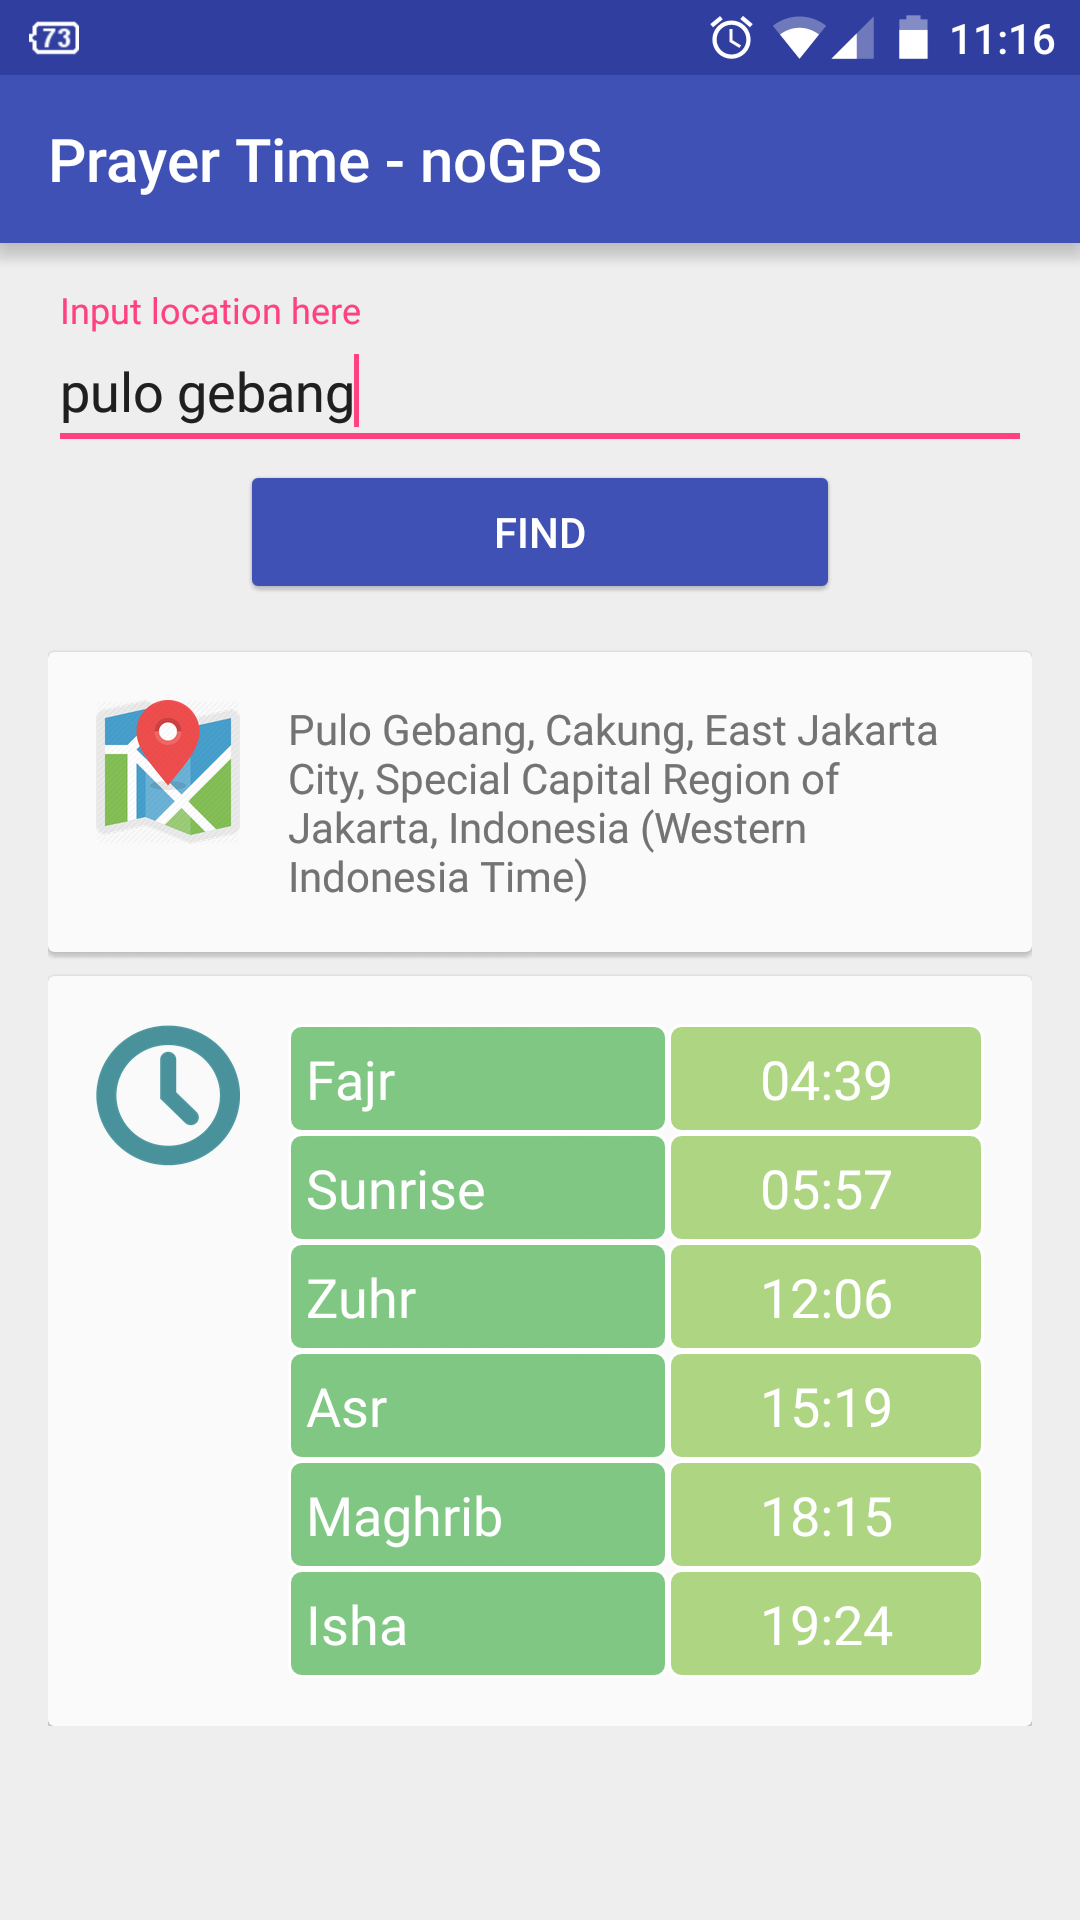
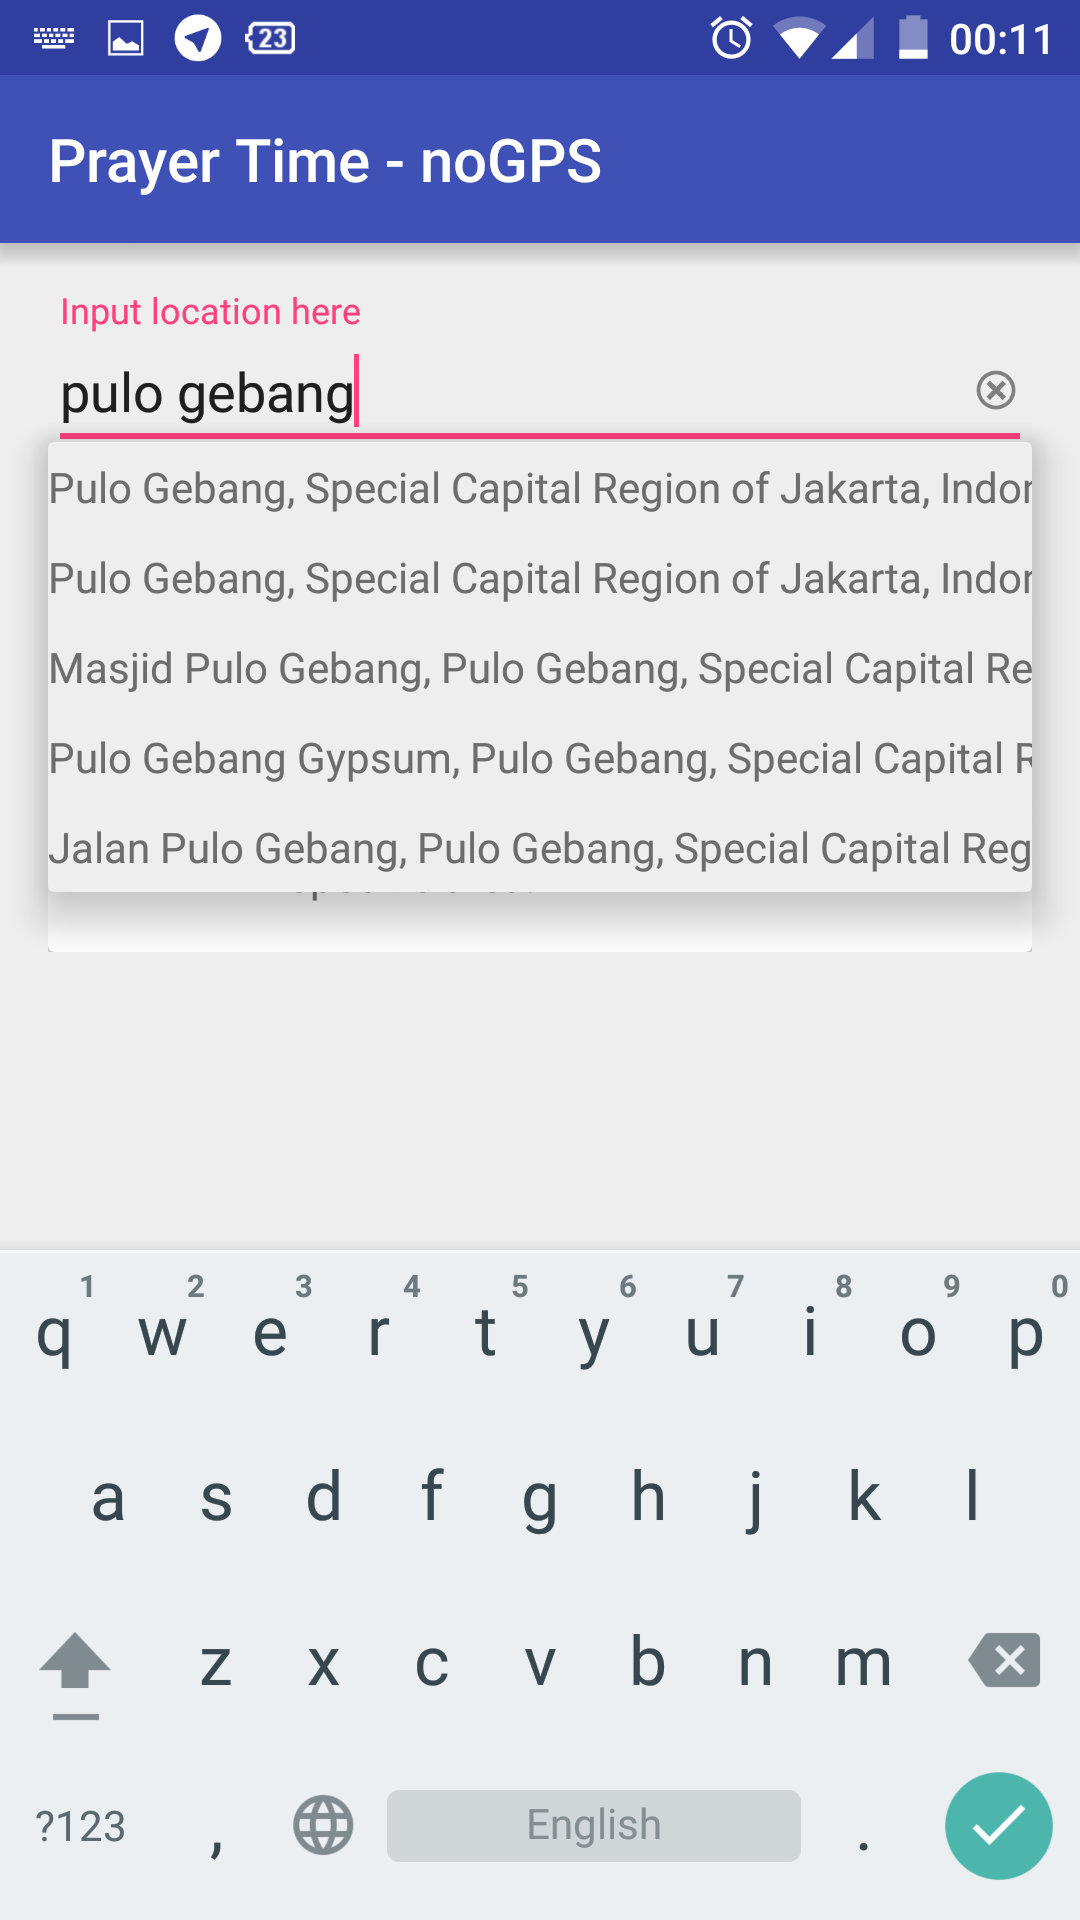
add location autocomplete

diff --git a/app/src/main/java/net/msembodo/prayertime_nogps/MainActivity.java b/app/src/main/java/net/msembodo/prayertime_nogps/MainActivity.java
@@ -9,19 +9,32 @@ import android.os.Bundle;
 import android.support.v7.widget.CardView;
 import android.view.View;
 import android.view.inputmethod.InputMethodManager;
-import android.widget.EditText;
+import android.widget.AdapterView;
+import android.widget.ArrayAdapter;
+import android.widget.Filter;
+import android.widget.Filterable;
 import android.widget.ImageView;
 import android.widget.TextView;
 import android.widget.Toast;
 
+import net.msembodo.extendedwidget.ClearableAutoCompleteTextView;
 import net.msembodo.jprayertime.PrayerTimes;
 
+import org.json.JSONArray;
 import org.json.JSONException;
+import org.json.JSONObject;
 
-public class MainActivity extends AppCompatActivity {
+import java.io.IOException;
+import java.io.InputStreamReader;
+import java.net.HttpURLConnection;
+import java.net.MalformedURLException;
+import java.net.URL;
+import java.net.URLEncoder;
+import java.util.ArrayList;
 
-    private TextInputLayout inputLayoutLocation;
-    private EditText editLocation;
+public class MainActivity extends AppCompatActivity implements AdapterView.OnItemClickListener {
+
+    private ClearableAutoCompleteTextView editLocation;
     private ImageView imgTip;
     private TextView txtLocDetail;
     private CardView cvPT;
@@ -31,12 +44,23 @@ public class MainActivity extends AppCompatActivity {
 
     private boolean hasBeenClicked;
 
+    private static final String PLACES_API_BASE = "https://maps.googleapis.com/maps/api/place";
+    private static final String TYPE_AUTOCOMPLETE = "/autocomplete";
+    private static final String OUT_JSON = "/json";
+    private static String API_KEY;
+
     @Override
     protected void onCreate(Bundle savedInstanceState) {
         super.onCreate(savedInstanceState);
         setContentView(R.layout.activity_main);
 
-        editLocation = (EditText) findViewById(R.id.editLocation);
+        editLocation = (ClearableAutoCompleteTextView) findViewById(R.id.editLocation);
+        editLocation.setAdapter(new GooglePlacesAutoCompleteAdapter(this, R.layout.list_item));
+        editLocation.setOnItemClickListener(this);
+        editLocation.showHideClearButton();
+        editLocation.hideClearButton();
+
+        API_KEY = this.getString(R.string.api_key);
 
         pd = new ProgressDialog(this);
 
@@ -53,6 +77,55 @@ public class MainActivity extends AppCompatActivity {
         cvPT.setVisibility(View.GONE);
 
         imgTime = (ImageView) findViewById(R.id.imageTime);
+    }
+
+    public void onItemClick(AdapterView adapterView, View view, int position, long id) {
+        editLocation.setText((String) adapterView.getItemAtPosition(position));
+    }
+
+    public static ArrayList autocomplete(String input) {
+        ArrayList resultList = null;
+
+        HttpURLConnection conn = null;
+        StringBuilder jsonResult = new StringBuilder();
+        try {
+            StringBuilder sb = new StringBuilder(PLACES_API_BASE + TYPE_AUTOCOMPLETE + OUT_JSON);
+            sb.append("?key=" + API_KEY);
+            //sb.append("&components=country:id");
+            sb.append("&input=" + URLEncoder.encode(input, "utf8"));
+
+            URL url = new URL(sb.toString());
+            conn = (HttpURLConnection) url.openConnection();
+            InputStreamReader in = new InputStreamReader(conn.getInputStream());
+
+            // load results into StringBuilder
+            int read;
+            char[] buff = new char[1024];
+            while ((read = in.read(buff)) != -1)
+                jsonResult.append(buff, 0, read);
+
+        } catch (MalformedURLException e) {
+            return resultList;
+        } catch (IOException e) {
+            return resultList;
+        } finally {
+            if (conn != null)
+                conn.disconnect();
+        }
+
+        try {
+            JSONObject jsonObj = new JSONObject(jsonResult.toString());
+            JSONArray predsJsonArray = jsonObj.getJSONArray("predictions");
+
+            resultList = new ArrayList(predsJsonArray.length());
+            for (int i = 0; i < predsJsonArray.length(); i++) {
+                //System.out.println(predsJsonArray.getJSONObject(i).getString("description"));
+                //System.out.println("============================================================");
+                resultList.add(predsJsonArray.getJSONObject(i).getString("description"));
+            }
+        } catch (JSONException e) {}
+
+        return resultList;
     }
 
     @Override
@@ -82,7 +155,7 @@ public class MainActivity extends AppCompatActivity {
     }
 
     public void onClickGo(View view) {
-        inputLayoutLocation = (TextInputLayout) findViewById(R.id.input_layout_location);
+        TextInputLayout inputLayoutLocation = (TextInputLayout) findViewById(R.id.input_layout_location);
         String strLocation = editLocation.getText().toString();
         if (strLocation.equals("")) {
             inputLayoutLocation.setError(getString(R.string.err_msg_location));
@@ -173,6 +246,53 @@ public class MainActivity extends AppCompatActivity {
                 txtIsha.setText(strIsha);
             }
 
+        }
+    }
+
+    class GooglePlacesAutoCompleteAdapter extends ArrayAdapter implements Filterable {
+        private ArrayList resultList;
+
+        public GooglePlacesAutoCompleteAdapter(Context context, int textViewResourceId) {
+            super(context, textViewResourceId);
+        }
+
+        @Override
+        public int getCount() {
+            return resultList.size();
+        }
+
+        @Override
+        public String getItem(int index) {
+            return (String) resultList.get(index);
+        }
+
+        @Override
+        public Filter getFilter() {
+            Filter filter = new Filter() {
+                @Override
+                protected FilterResults performFiltering(CharSequence constraint) {
+                    FilterResults filterResults = new FilterResults();
+                    if (constraint != null) {
+                        // retrieve the autocomplete result
+                        resultList = autocomplete(constraint.toString());
+
+                        // assign data to FilterResults
+                        filterResults.values = resultList;
+                        filterResults.count = resultList.size();
+                    }
+
+                    return filterResults;
+                }
+
+                @Override
+                protected void publishResults(CharSequence constraint, FilterResults results) {
+                    if (results != null && results.count > 0)
+                        notifyDataSetChanged();
+                    else
+                        notifyDataSetInvalidated();
+                }
+            };
+            return filter;
         }
     }
 }
